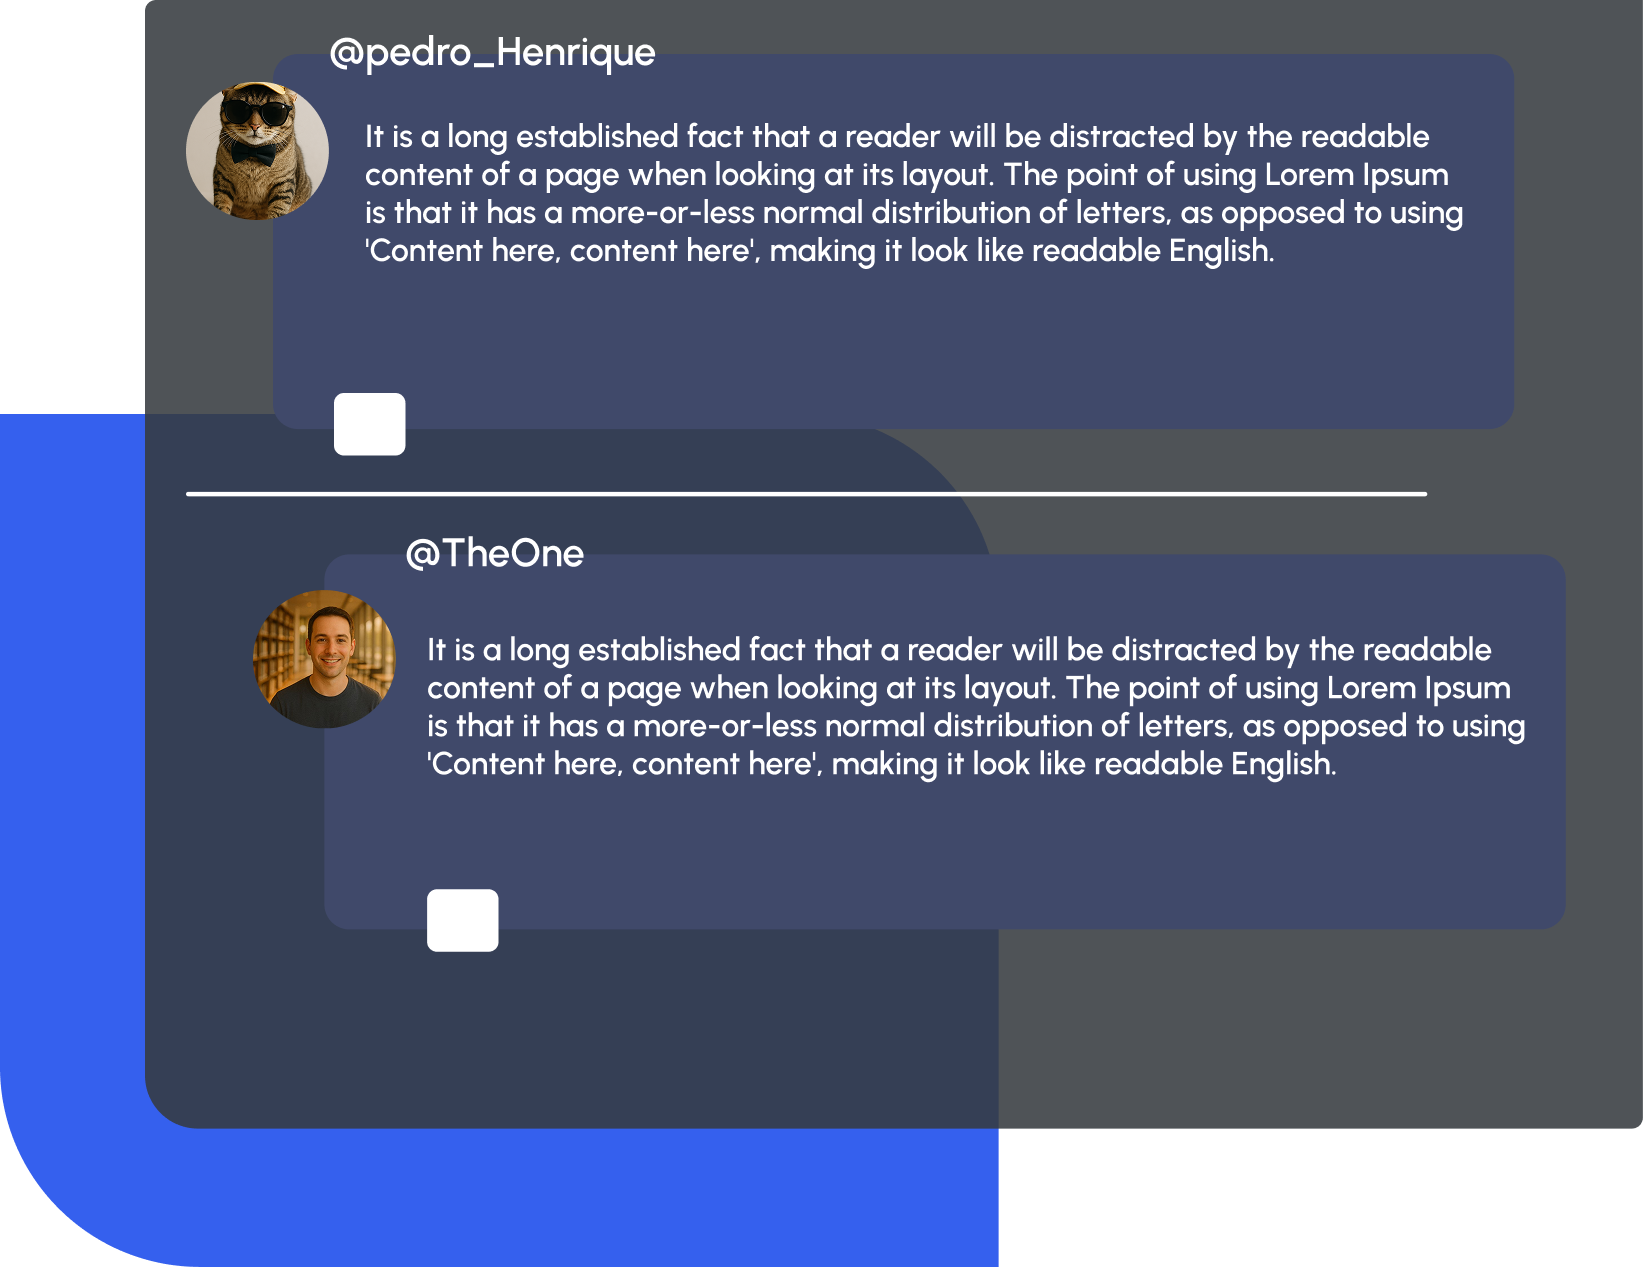
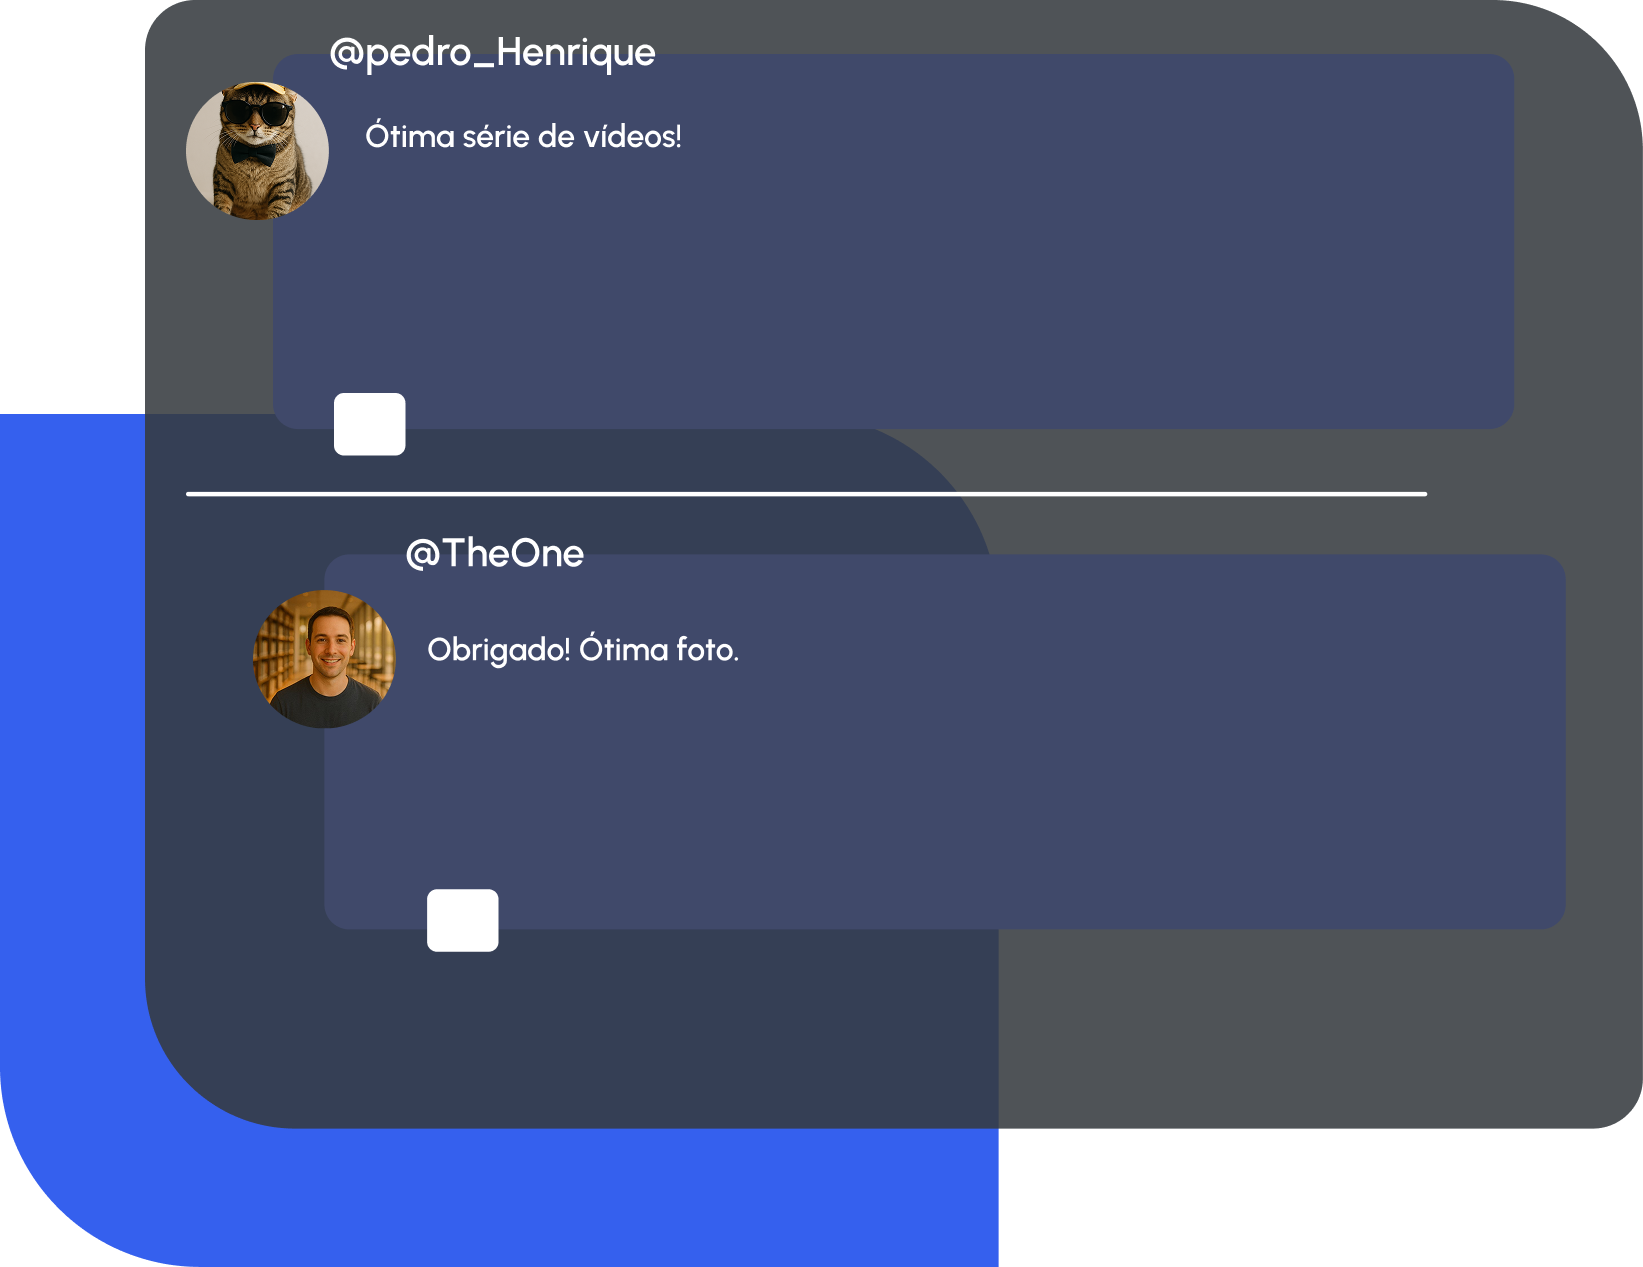
Ajuste na home page, apresentação de comentarios

diff --git a/PathCarrer/src/Pages/HomePage/HomePage.module.css b/PathCarrer/src/Pages/HomePage/HomePage.module.css
@@ -387,14 +387,13 @@
     right: 4%;
     top: 10%;
 
-    background-color: rgba(19, 23, 62, 0.8);
+    background-color: #3560EE;
 
-    border-radius: 0.8vw;
-
+    border-bottom-left-radius: 8vw;
+    border-top-right-radius: 5vw;
+    
     object-fit: contain;
     overflow: hidden;
-
-
 
     z-index: 1;
 }
